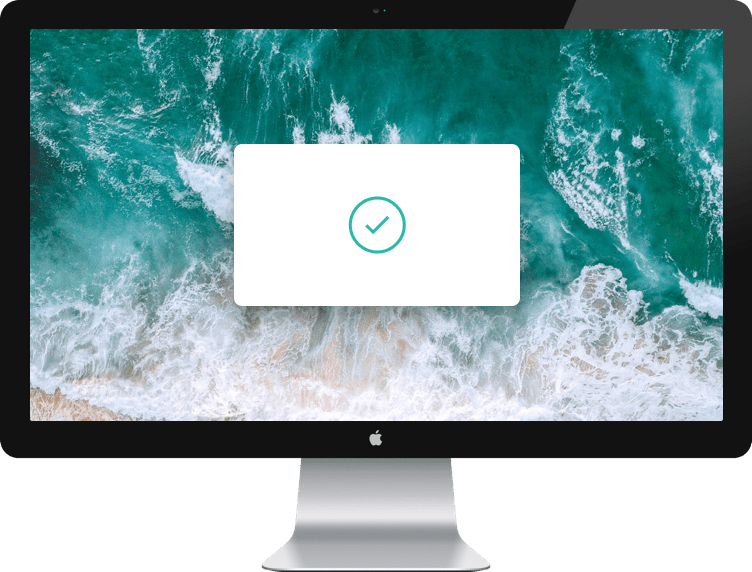
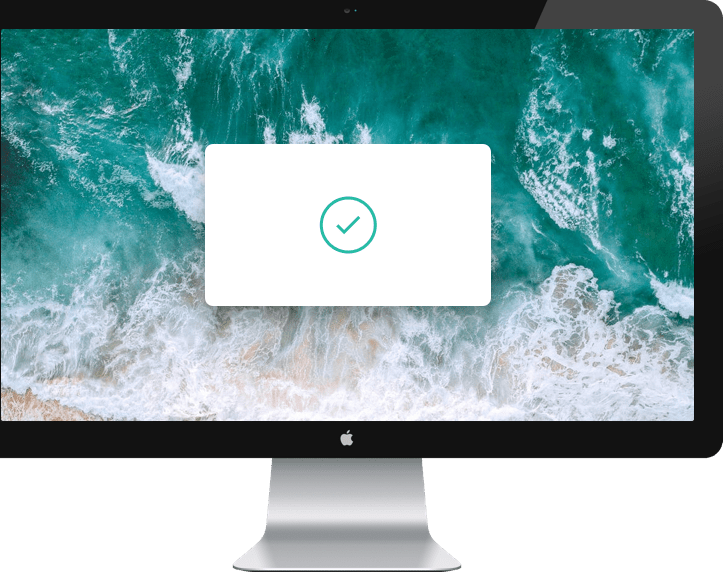
commit 14:16

diff --git a/style/style.css b/style/style.css
@@ -49,7 +49,8 @@ body{
 .download__content{
     max-width: 700px;
     width:100%;
-    margin: 0 auto;
+    margin: 0 auto 150px;
+    
 
 }
 
@@ -63,7 +64,7 @@ body{
     font-size: 20px;
     line-height: 1.5;/*Для управления межстрочным расстоянием (оно еще называется интерлиньяжем) применяется стилевое свойство line-height. В качестве значения обычно указывается число, которое определяет межстрочный интервал. Например, line-height: 2 устанавливает двойной интервал, а line-height: 1.5 — полуторный*/
     text-align: center;
-    padding-bottom: 55px;
+    margin-bottom: 50px;
     
 }
 .download__form{
@@ -92,13 +93,27 @@ body{
 
 }
 /*-----------------------desktop------------------*/
+
 .desktop{
-    text-align: left;
+   
 }
+
 .desktop__title{
+    max-width: 700px;
+    width:100%;
+    margin: 0 auto;
+    font-size: 35px;
+    font-weight: 600;
+    margin-bottom: 25px;
+    text-align: center;
 
 }
 .desktop__text{
+    max-width: 700px;
+    width:100%;
+    margin: 0 auto 80px;
+    text-align: center;
+    line-height: 1.5;/*Для управления межстрочным расстоянием (оно еще называется интерлиньяжем) применяется стилевое свойство line-height. В качестве значения обычно указывается число, которое определяет межстрочный интервал. Например, line-height: 2 устанавливает двойной интервал, а line-height: 1.5 — полуторный*/
 
 }
 .desktop .container{
@@ -108,18 +123,36 @@ body{
 .desktop__box{
     display: flex;
     justify-content: space-between;
+    margin-bottom: 150px;
 }
 .desktop_info{
-margin: 100px 150px;
+margin: 70px 200px auto 105px;
+text-align: left;
 }
 .desktop_info h3{
-    font-size: 20px;
+    font-size: 22px;
     font-weight: 600;
-    margin-bottom: 30px;
+    margin-bottom: 10px;
 }
 .desktop_info p{
+    margin-bottom: 60px;
+    line-height: 1.5;/*Для управления межстрочным расстоянием (оно еще называется интерлиньяжем) применяется стилевое свойство line-height. В качестве значения обычно указывается число, которое определяет межстрочный интервал. Например, line-height: 2 устанавливает двойной интервал, а line-height: 1.5 — полуторный*/
 
 }
+/*
+.desktop__img{
+    position: relative;
+    max-width: 750px;
+    max-height: 570px;
+    width:100%;
+    height: 100%;
+    overflow: hidden;
+
+}
+.img__img{
+    position: absolute;
+    left:-30px;
+}*/
 /*-----------------------desktop------------------*/
 
 /*-----------------------devices------------------*/
@@ -127,11 +160,11 @@ margin: 100px 150px;
     text-align: center;
 }
 .devices_text{
-    margin-bottom: 80px;
+    margin-bottom: 100px;
 }
 
 .devices h3{
-    font-size: 40px;
+    font-size: 35px;
     font-weight: 600;
     margin-bottom: 30px;
 }
@@ -139,6 +172,14 @@ margin: 100px 150px;
     font-size: 18px;
     font-weight: 400;
     
+}
+.devices__devices{
+    margin-bottom: 70px;
+}
+
+.devices .container >p{
+    margin-bottom: 30px;
+
 }
 /*-----------------------devices------------------*/
 

diff --git a/index.html b/index.html
@@ -40,8 +40,8 @@
         meaning you can access your snippets immediately on all your
         devices. Our Mac and iOS apps will help you organize everything.</div>
       <div class="desktop__box">
-        <div>
-          <img src="./img/image-computer.png" alt="computer">
+        <div class="desktop__img">
+          <img class= "img__img" src="./img/image-computer.png" alt="computer">
         </div>
         <div class="desktop_info">
           <h3>Quick Search</h3>
